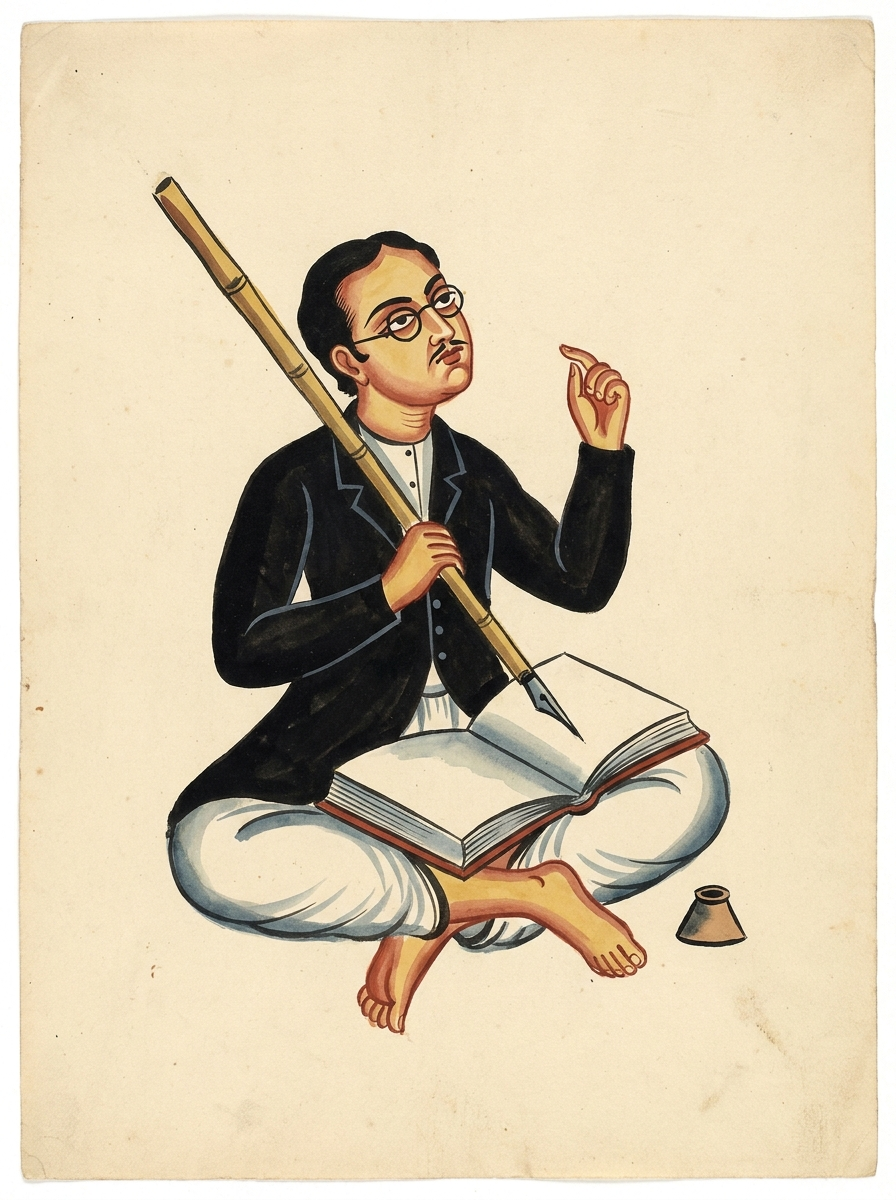
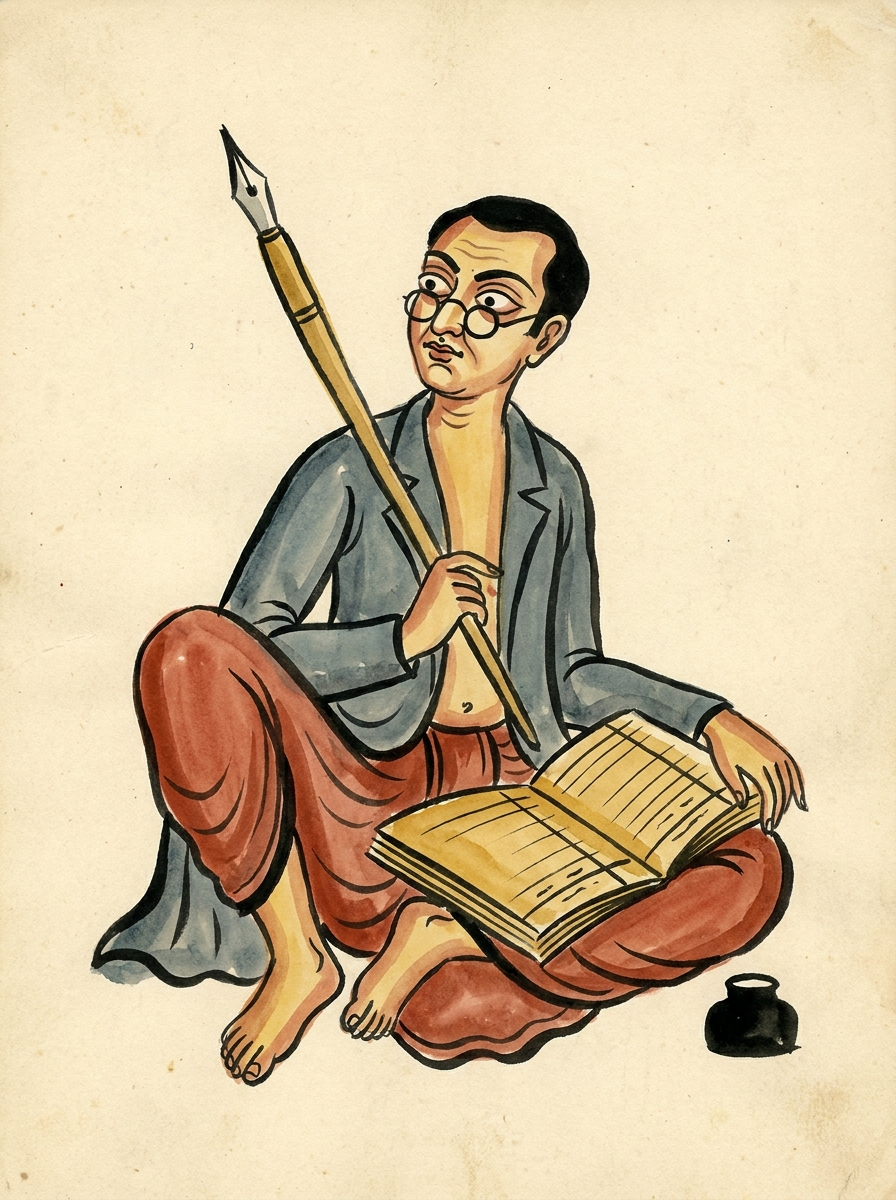
Generated art from briefs: kalighat-sahib,kalighat-babu

diff --git a/art/CREDITS.md b/art/CREDITS.md
@@ -54,3 +54,10 @@ Provenance for everything in `art/`. Generated assets record model and prompt.
   > A single object or mark on a sheet of paper, photographed flat and square-on from directly above, filling most of the sheet. The paper is bare, plain and lightly aged: nothing else appears on it at all — no printing, no frame, no border, no ornament, no letterhead, no engraved device, no certificate, no caption. Just the one thing, alone on the page. Subject: A blob of dark oxblood sealing wax, pressed with a die. The wax has an irregular scalloped edge where it spread, and a matte surface with only the faintest sheen. The impression shows a six-pointed star inside a plain circlet, crisp where the die bit and softened where the wax ran. Every panel, band, slot and field within the object is completely BLANK — no text, no letters, no numerals, no dates, no monograms, no fake writing or squiggles standing in for writing. Absolutely no decorative frame, no engraved border, no guilloche, no security printing, no surrounding ornament of any kind. Matte and flat: no gloss, no specular highlight, no 3D render, no drop shadow, no perspective, no tilt, no desk, no hand, no fingers. No signature, no watermark.
 - **stamp-rubber** · register: isolated · model: `gemini-3-pro-image`
   > A single object or mark on a sheet of paper, photographed flat and square-on from directly above, filling most of the sheet. The paper is bare, plain and lightly aged: nothing else appears on it at all — no printing, no frame, no border, no ornament, no letterhead, no engraved device, no certificate, no caption. Just the one thing, alone on the page. Subject: The impression of a circular rubber office datestamp, struck in violet ink. Two concentric rings with an empty band between them and an empty rectangular slot across the middle. Struck slightly askew, over-inked and blotted along the lower left edge, and starved to a broken, patchy outline along the upper right where the pad had dried. Every panel, band, slot and field within the object is completely BLANK — no text, no letters, no numerals, no dates, no monograms, no fake writing or squiggles standing in for writing. Absolutely no decorative frame, no engraved border, no guilloche, no security printing, no surrounding ornament of any kind. Matte and flat: no gloss, no specular highlight, no 3D render, no drop shadow, no perspective, no tilt, no desk, no hand, no fingers. No signature, no watermark.
+
+## Generated 
+
+- **kalighat-babu** · register: kalighat · model: `gemini-3-pro-image`
+  > A Kalighat pat from Calcutta, about 1920 — a cheap devotional print painted in minutes for sale outside the temple. A single thick black brush contour, heavily swelling and tapering, drawn in one confident sweep and left slightly ragged. Absolutely no background: bare cream paper surrounds the figure. Exactly three colours besides the black line — earth red, yellow ochre and a dull blue-grey — laid as flat unmodulated washes, with a single darker wash along one edge of each limb to give it roundness. Rounded, swollen, sculptural forms. Almost no interior detail: no folds, no pattern, no texture. One or two figures filling the whole sheet, the pose exaggerated for comedy, the humour affectionate rather than cruel. Crude, fast and confident. Subject: A satirical portrait of a cutcherry clerk. A thin Bengali babu in a dhoti and a European frock coat, spectacles on his nose, sits cross-legged with an enormous reed pen held upright like a spear and a vast ledger open across his knees. His expression is one of immense self-importance. A tiny inkpot beside him. The pen is comically larger than it should be. Watercolour on plain cream paper. The cream paper fills the entire image from edge to edge — it is not a sheet resting on a table or any other surface, and there is no dark ground, no border, no margin and no shadow anywhere around it. No background, no scenery, no frame. Only three colours plus black. No fine detail, no cross-hatching, no stippling, no airbrush, no digital gradient, no photographic realism, no 3D render. No text, no lettering, no signature, no watermark.
+- **kalighat-sahib** · register: kalighat · model: `gemini-3-pro-image`
+  > A Kalighat pat from Calcutta, about 1920 — a cheap devotional print painted in minutes for sale outside the temple. A single thick black brush contour, heavily swelling and tapering, drawn in one confident sweep and left slightly ragged. Absolutely no background: bare cream paper surrounds the figure. Exactly three colours besides the black line — earth red, yellow ochre and a dull blue-grey — laid as flat unmodulated washes, with a single darker wash along one edge of each limb to give it roundness. Rounded, swollen, sculptural forms. Almost no interior detail: no folds, no pattern, no texture. One or two figures filling the whole sheet, the pose exaggerated for comedy, the humour affectionate rather than cruel. Crude, fast and confident. Subject: A satirical portrait of a British district officer as the traditional Kalighat hypocrite-cat. A plump self-satisfied Englishman in a solar topi and buttoned white drill jacket stands in profile, chin lifted, clutching a bundle of official files under one arm. He wears the pious expression of a holy man, while behind his back his other hand holds a fat fish. Gentle, unmistakable mockery. Watercolour on plain cream paper. The cream paper fills the entire image from edge to edge — it is not a sheet resting on a table or any other surface, and there is no dark ground, no border, no margin and no shadow anywhere around it. No background, no scenery, no frame. Only three colours plus black. No fine detail, no cross-hatching, no stippling, no airbrush, no digital gradient, no photographic realism, no 3D render. No text, no lettering, no signature, no watermark.
